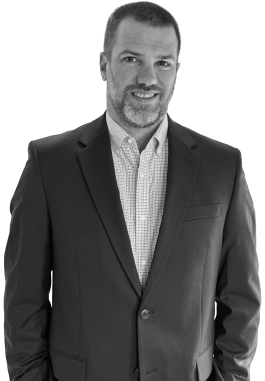
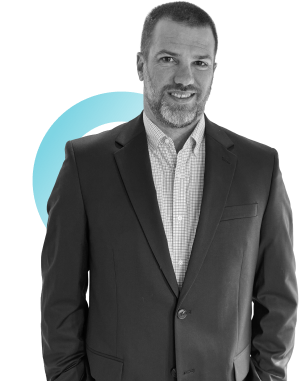
accre-add

diff --git a/assets/css/our-people.css b/assets/css/our-people.css
@@ -71,6 +71,8 @@ color: #00ABC8;
     position: relative;
     margin: 0 0 20px 0;
     height: 380px;
+    width: 100%;
+    overflow: hidden;
 }
 .our-people .row.flex{
 display: flex;
@@ -82,7 +84,7 @@ text-align: center;
 }
 .talent-box img{
     margin: 0 auto 0 auto;
-    width:auto;
+    width: auto;
     padding-top: 20px;
     display: block;
     position: relative;
@@ -102,6 +104,7 @@ text-align: center;
     top: 88px;
     height: 100px;
     transform: rotate(-45deg);
+    display: none;
 }
 .talent-box.box-2:after{
     background: url(../images/our-people/ellipse-2.svg) 0 0 no-repeat;
